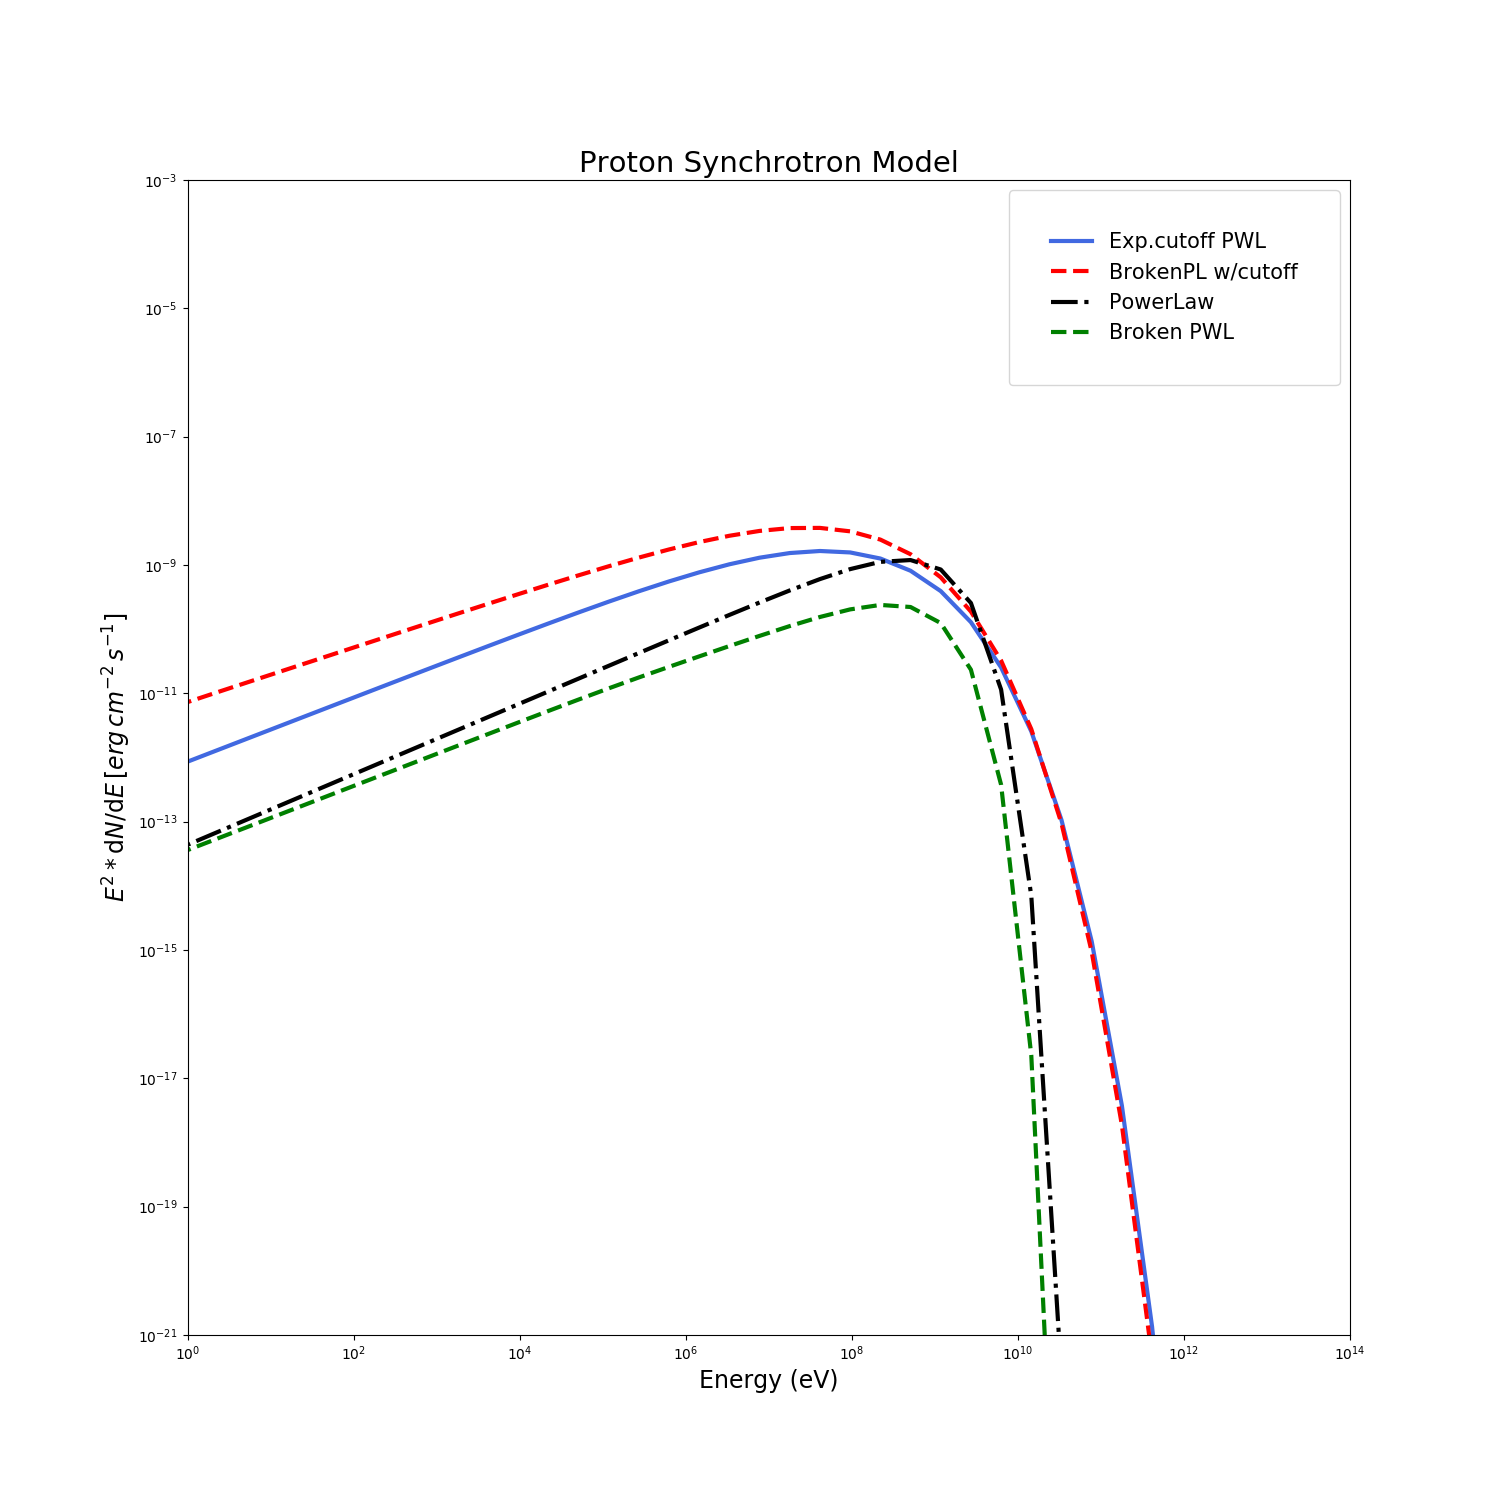
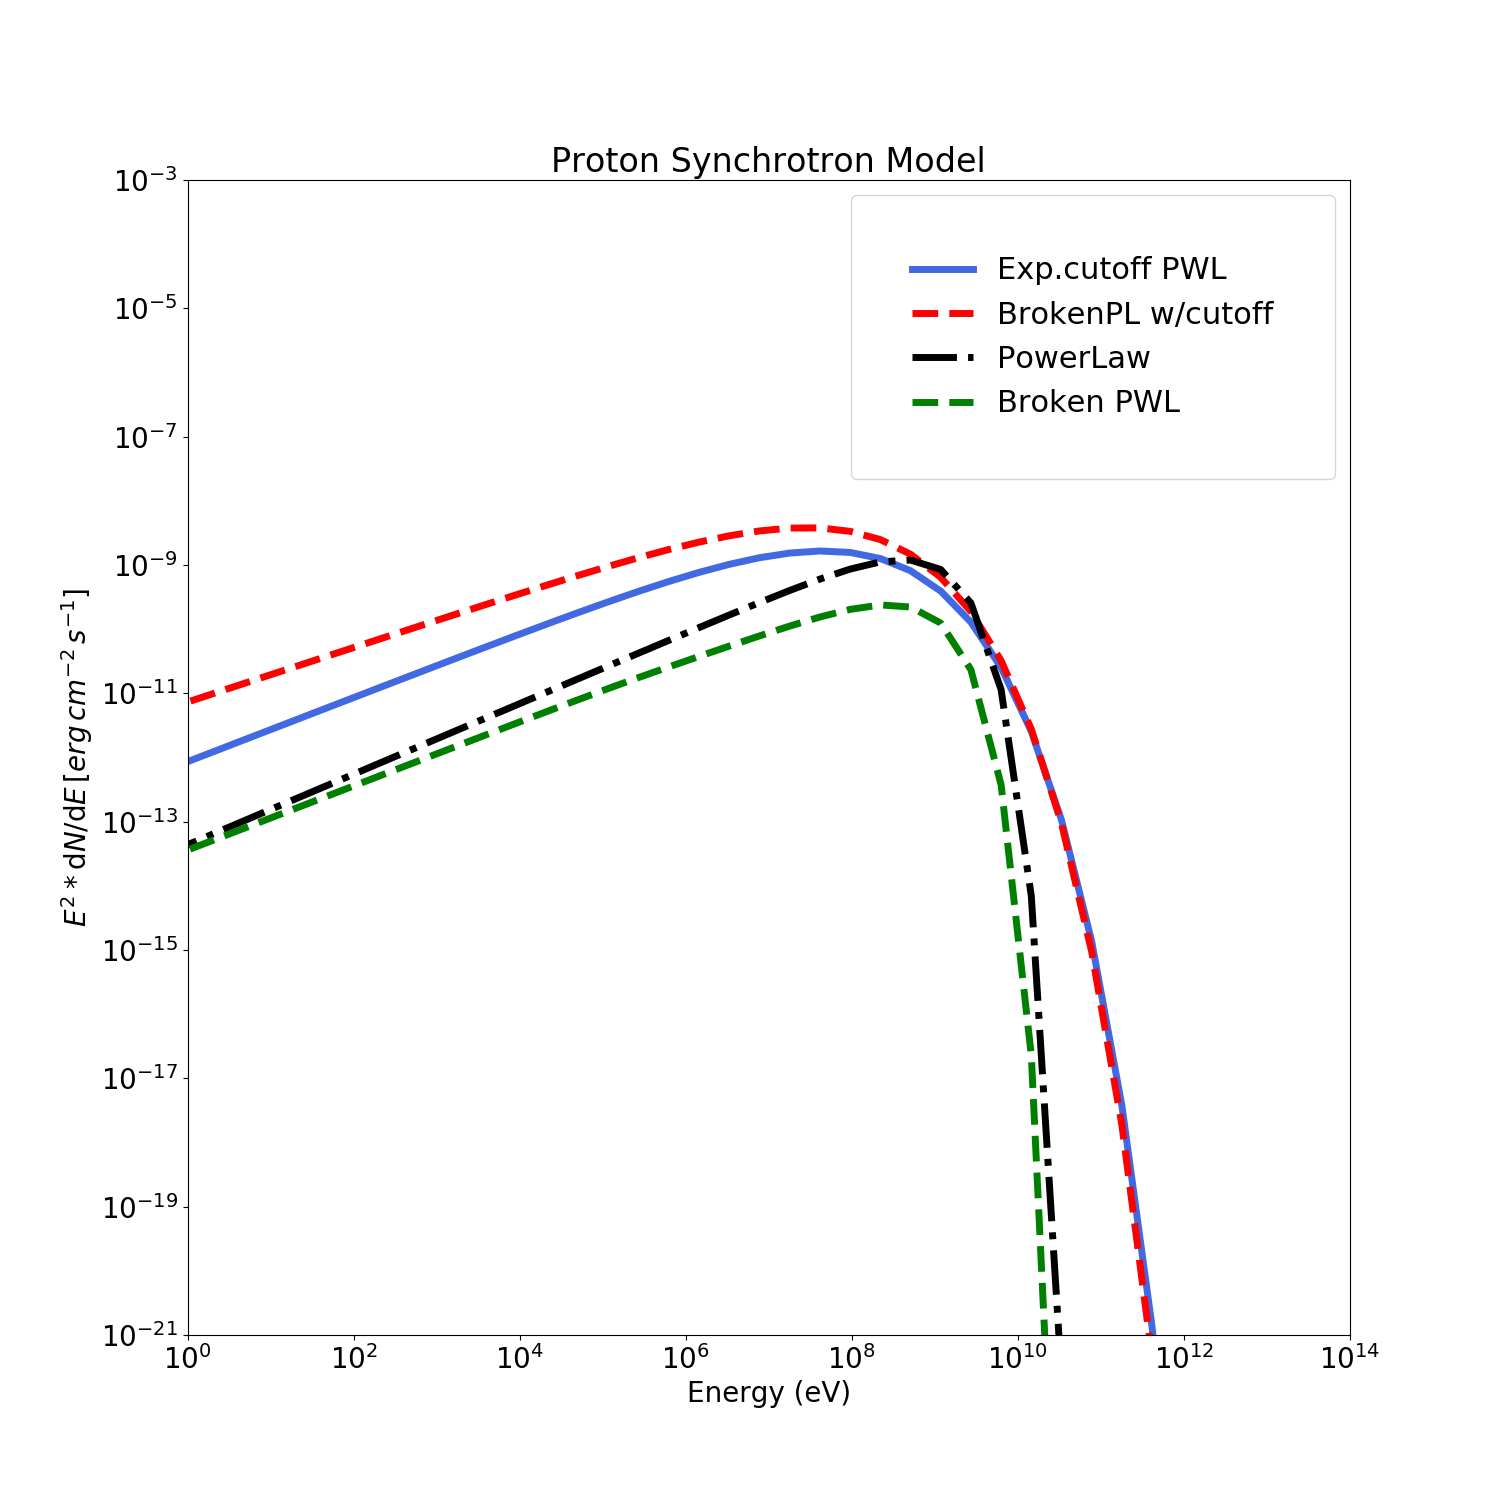
Changing the figure definitions for pgamma

diff --git a/trial_psync_model/psync.py b/trial_psync_model/psync.py
@@ -124,14 +124,16 @@ if __name__ == '__main__':
 
     for pd, ls, cs, lb in zip(pds, ls, colors, labels):
         sed = pd.sed(specen, dist)
-        ax.loglog(specen, sed, lw = 3,
+        ax.loglog(specen, sed, lw = 5,
                   color = cs, ls = ls, label = lb)
-    ax.set_xlabel('Energy (eV)', fontsize = 17)
+    ax.set_xlabel('Energy (eV)', fontsize = 20)
     ax.set_ylabel(
-        r'$E^{2}*{\rm d}N/{\rm d}E\,[erg\,cm^{-2}\,s^{-1}]$', fontsize = 17)
-    ax.set_title('Proton Synchrotron Model', fontsize = 21)
+        r'$E^{2}*{\rm d}N/{\rm d}E\,[erg\,cm^{-2}\,s^{-1}]$', fontsize = 20)
+    ax.set_title('Proton Synchrotron Model', fontsize = 24)
     ax.set_ylim(1e-21, 1e-3)
     ax.set_xlim(1e0, 1e14)
-    plt.legend(loc='best', borderpad = 2, fontsize = 15)
+    ax.xaxis.set_tick_params(labelsize=20)
+    ax.yaxis.set_tick_params(labelsize=20)
+    plt.legend(loc='best', borderpad = 2, fontsize = 22)
     plt.savefig('psync_model_comparison.png')
     plt.show()
